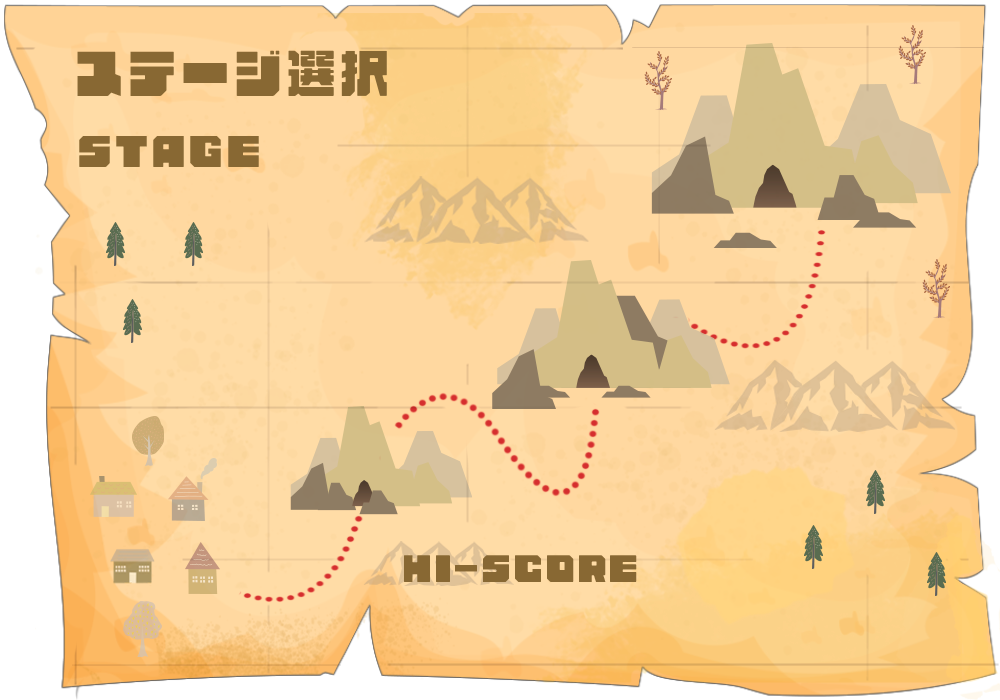
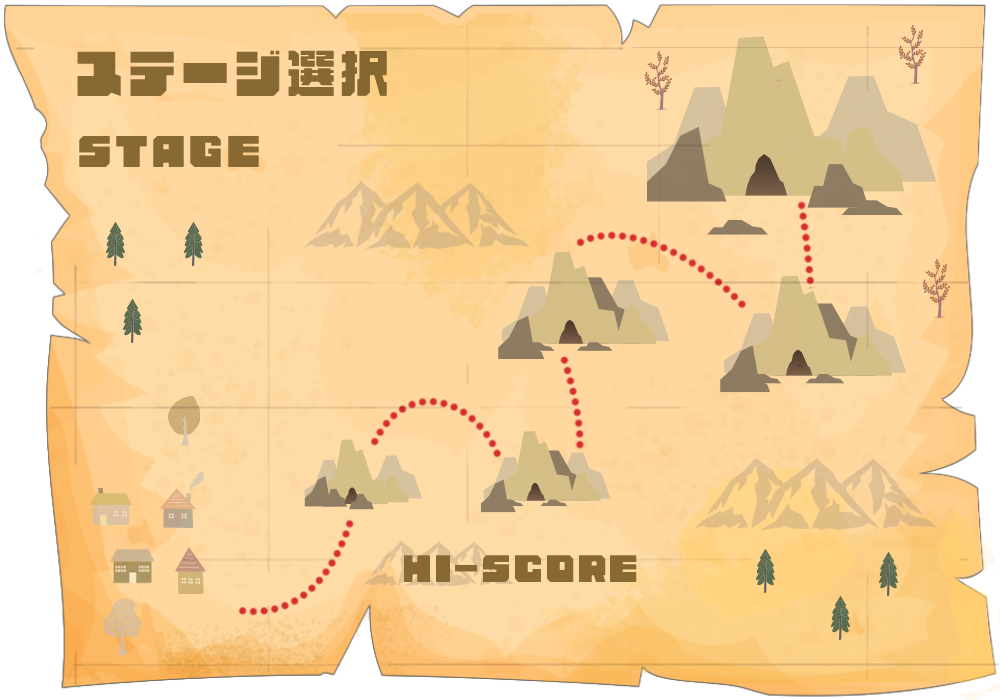
嫌がられる程

diff --git a/game02/StageSelect.cpp b/game02/StageSelect.cpp
@@ -82,12 +82,12 @@ void StageSelect::Update(Key* key)
 	{
 		if (key->GetStickAngle(L).x > 0)
 		{
-			if (++stage_number > 2)stage_number = 0;
+			if (++stage_number >= STAGE_NUM)stage_number = 0;
 			operating_time = 0;
 		}
 		else if (key->GetStickAngle(L).x < 0)
 		{
-			if (--stage_number < 0)stage_number = 2;
+			if (--stage_number < 0)stage_number = STAGE_NUM - 1;
 			operating_time = 0;
 		}
 	}

diff --git a/game02/define.h b/game02/define.h
@@ -1,6 +1,6 @@
 #pragma once
 
-#define STAGE_NUM 3
+#define STAGE_NUM 5
 
 #define FPS 60
 
